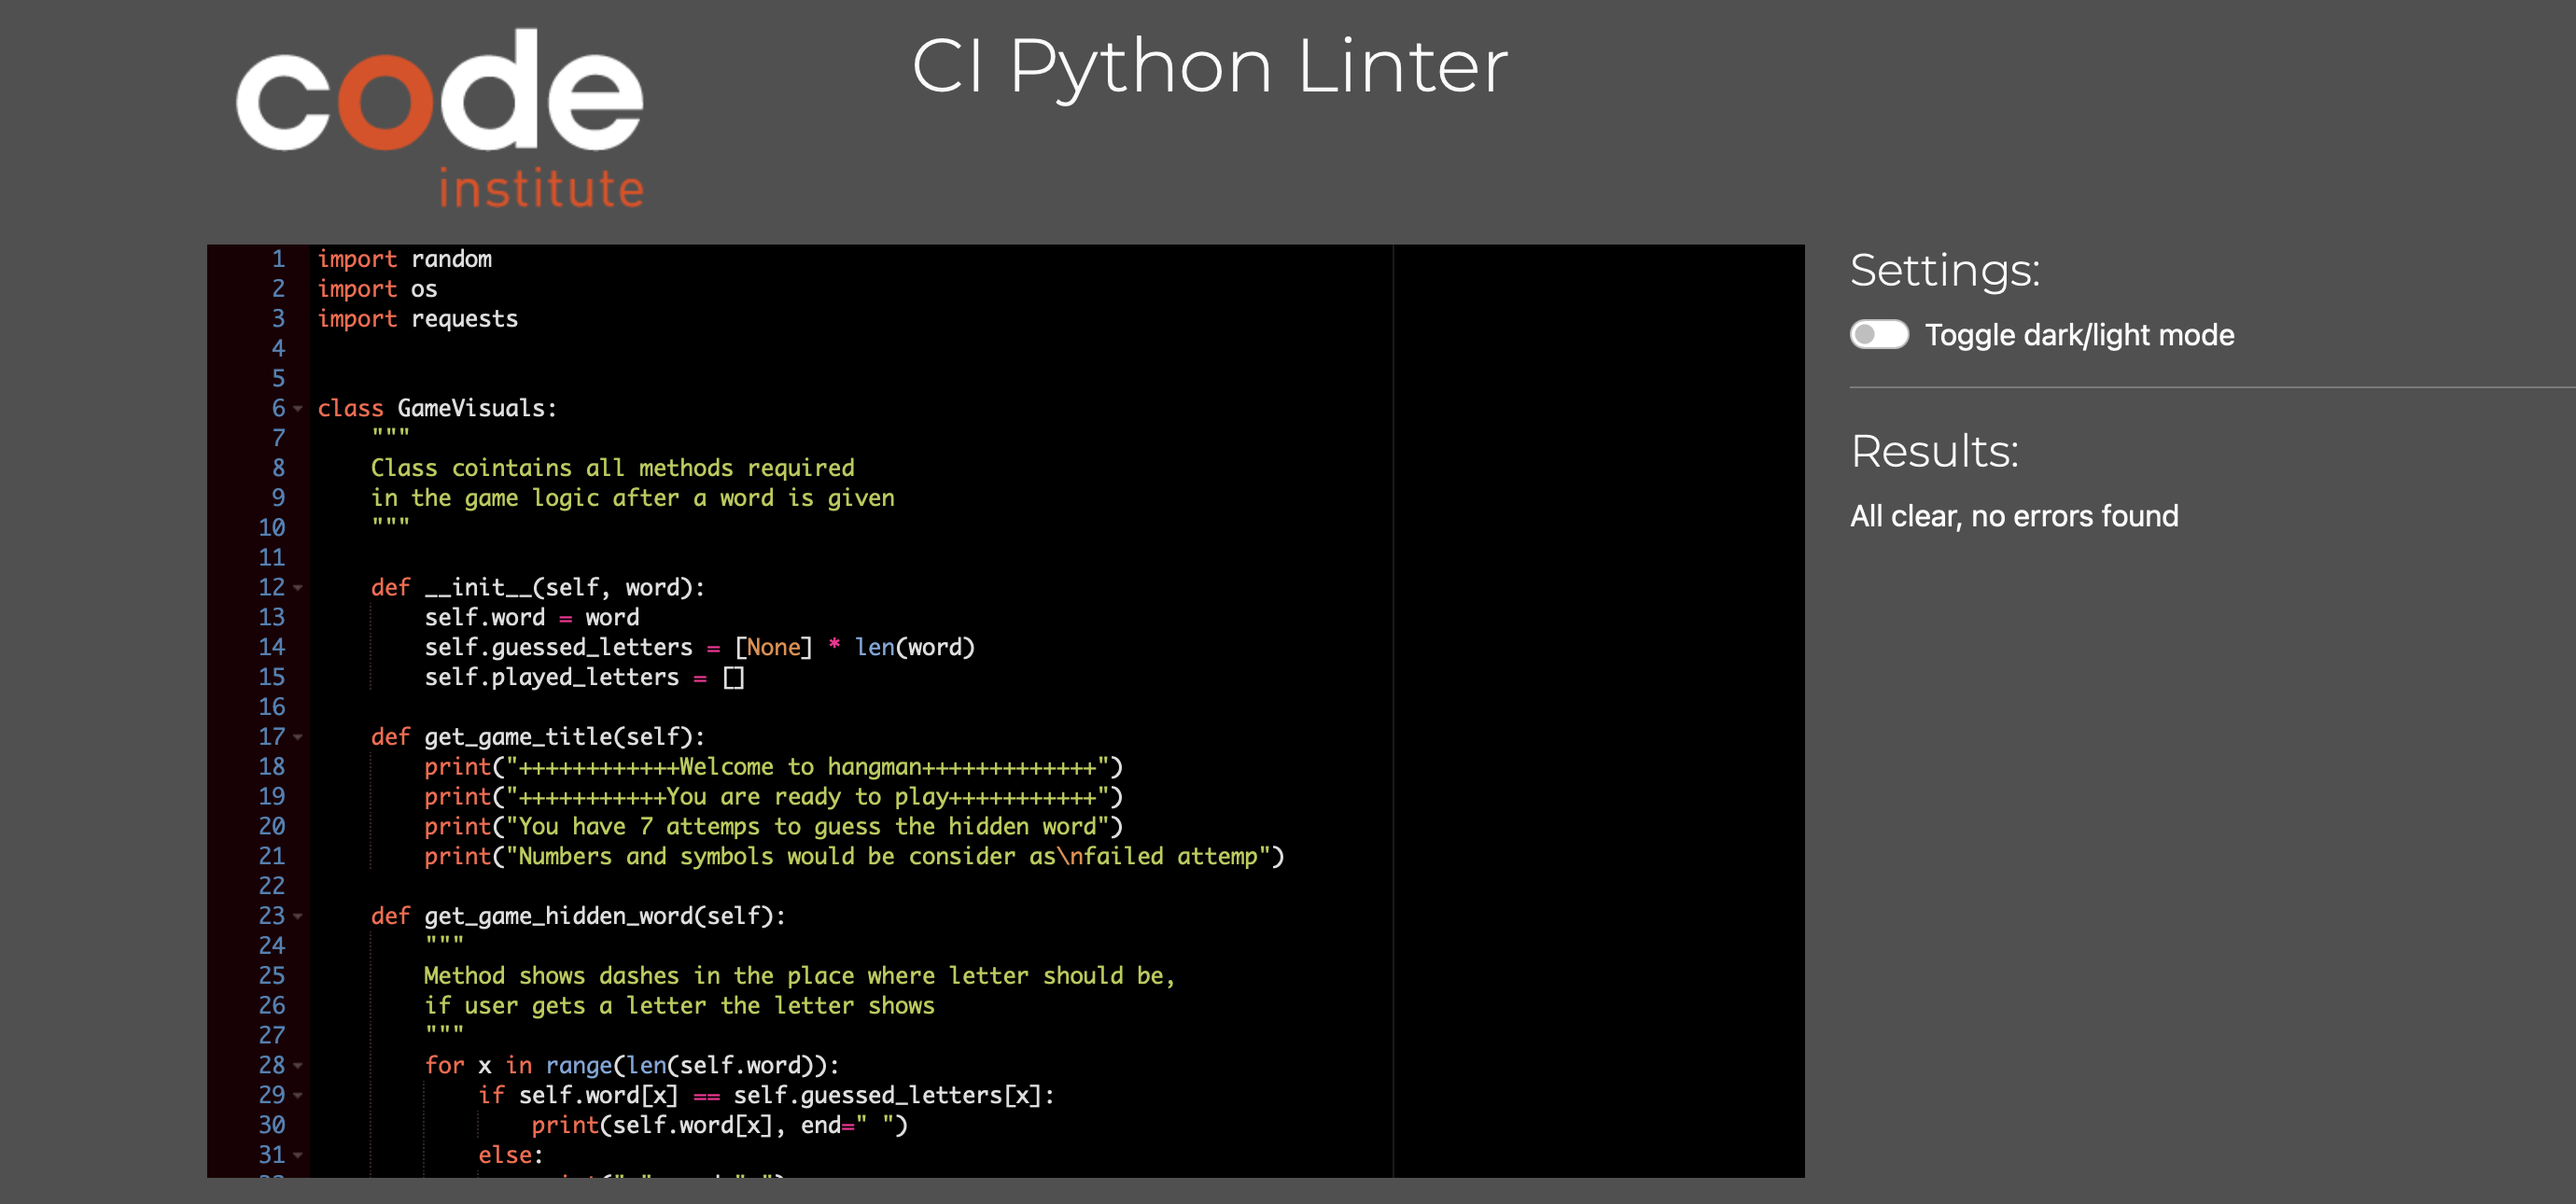
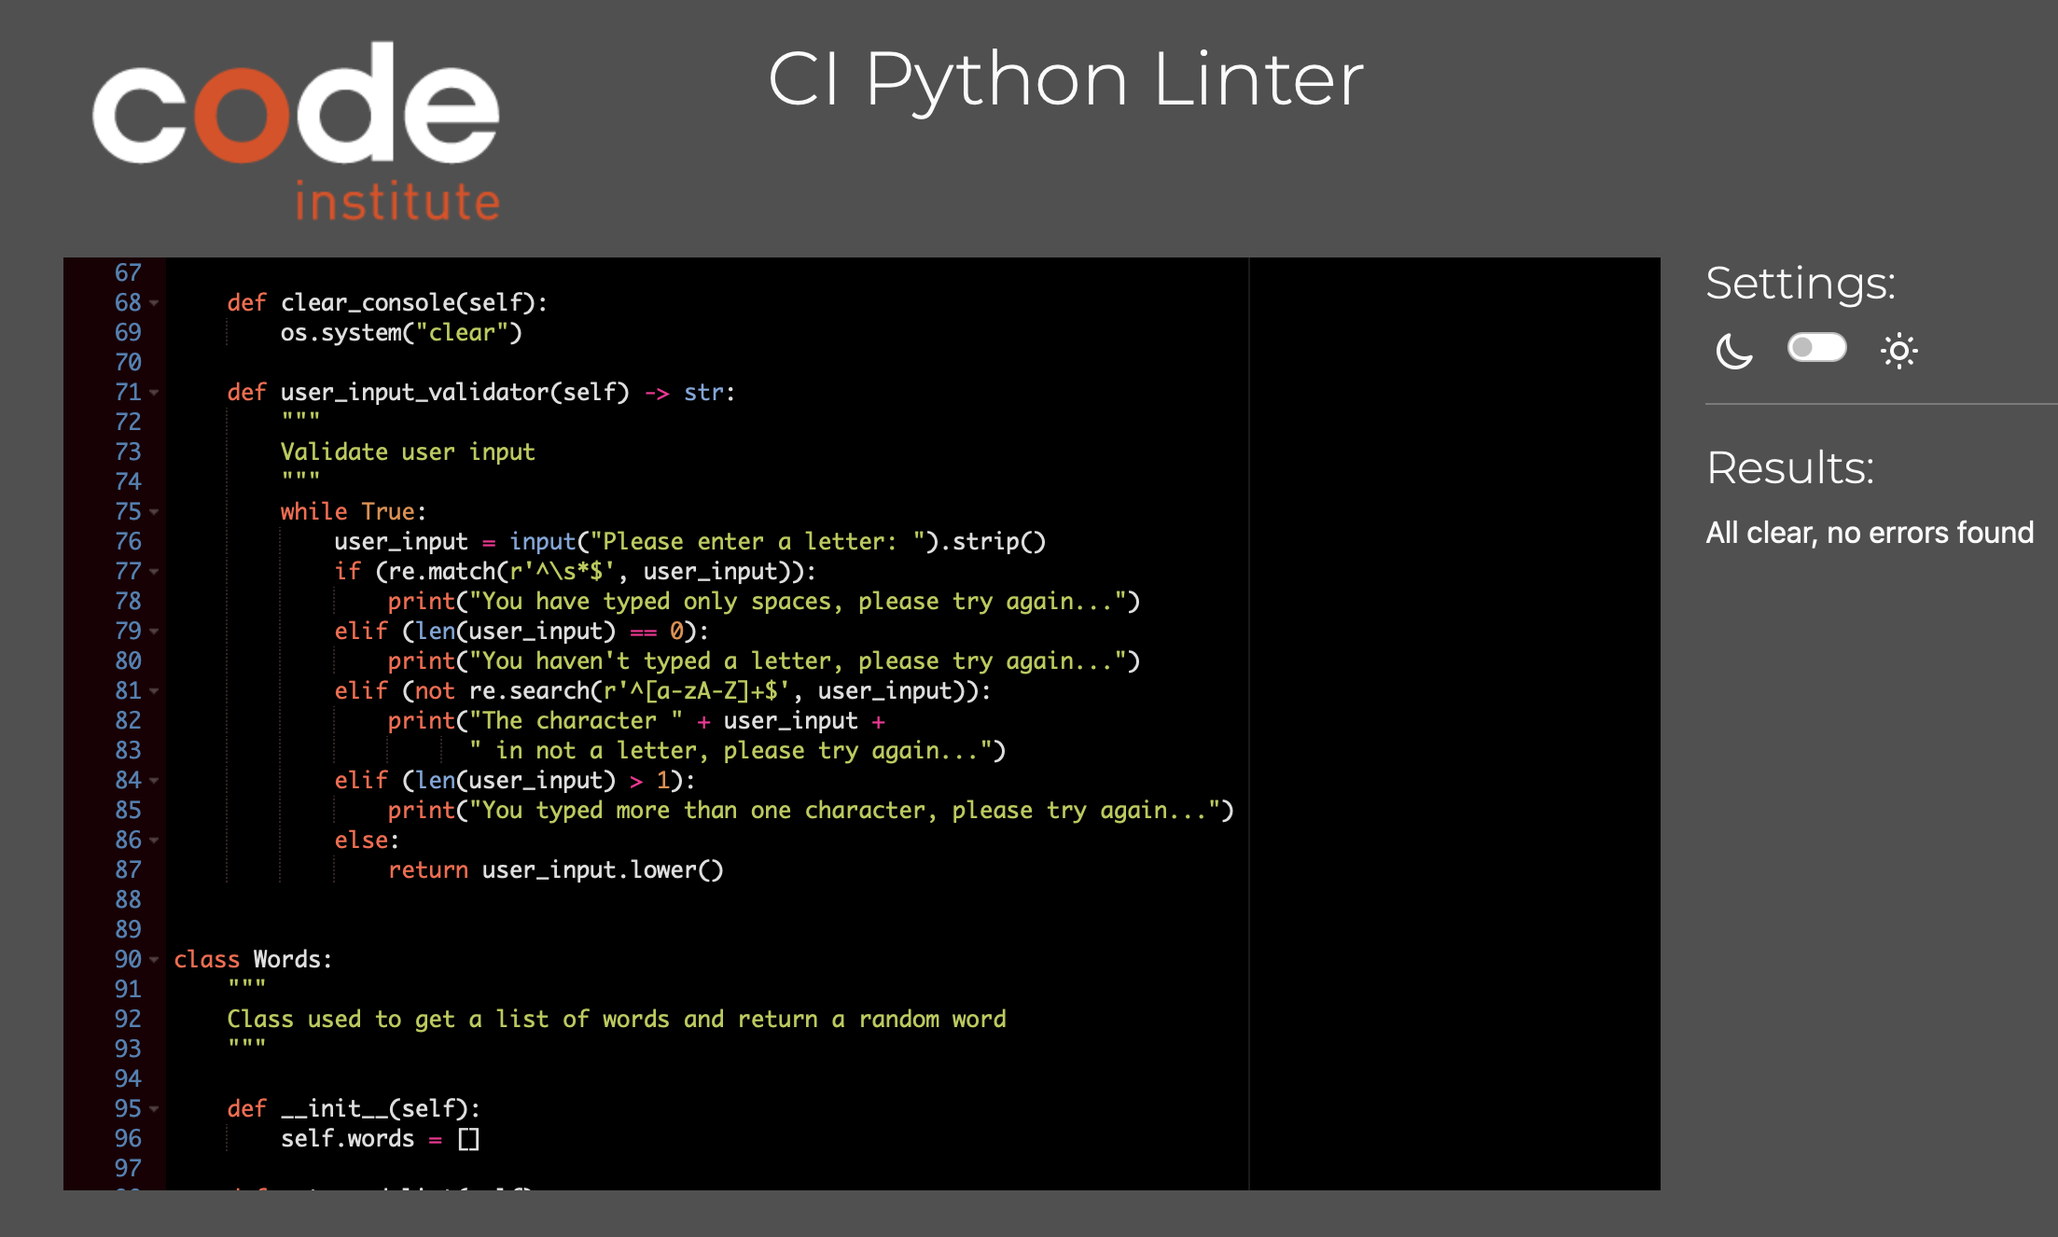
Add link to youtube channel, fixing some bugs

Changed region(s): [[0.0308, 0.031, 0.9864, 0.9922], [0.3391, 0.031, 0.6473, 0.093]]

diff --git a/run.py b/run.py
@@ -1,14 +1,18 @@
+"""
+This module contains the implementation of the hangman game
+"""
+
 import random
 import os
-import requests
 import re
+import requests
 
 
 class GameVisuals:
-    “”"
+    """
     Class contains all methods required
     in the game logic after a word is given
-    “”"
+    """
 
     def __init__(self, word):
         self.word = word
@@ -16,35 +20,41 @@ class GameVisuals:
         self.played_letters = []
 
     def get_game_title(self):
-        print(“++++++++++++Welcome to hangman+++++++++++++“)
-        print(“+++++++++++You are ready to play+++++++++++“)
-        print(“You have 7 attempts to guess the hidden word”)
+        """
+        Welcoming message for user
+        """
+        print("++++++++++++Welcome to hangman+++++++++++++")
+        print("+++++++++++You are ready to play+++++++++++")
+        print("You have 7 attempts to guess the hidden word")
 
     def get_game_hidden_word(self):
-        “”"
+        """
         Method shows dashes in the place where letter should be,
         if user gets a letter the letter shows
-        “”"
+        """
         for x in range(len(self.word)):
             if self.word[x] == self.guessed_letters[x]:
-                print(self.word[x], end=” “)
+                print(self.word[x], end=" ")
             else:
-                print(“_”, end=” “)
-        print(“”)
-        print(“”)
+                print("_", end=" ")
+        print("")
+        print("")
 
     def compare_word_letter(self, user_input) -> int:
-        “”"
+        """
         Verifies if the user input is a letter of the hidden word
-        “”"
+        """
         index = 0
         letter_found_count = 0
         user_input_lenght = len(user_input)
+
         for guess_letter in self.played_letters:
             if guess_letter == user_input:
                 letter_found_count = -1
+
         if user_input_lenght != 1:
             letter_found_count = -1
+
         if letter_found_count != -1:
             for letter in self.word:
                 if letter == user_input:
@@ -52,57 +62,65 @@ class GameVisuals:
                     letter_found_count = letter_found_count + 1
                 index = index + 1
             self.played_letters.append(user_input)
+
         return letter_found_count
 
     def get_played_letters(self):
-        “”"
+        """
         Shows all the letters that the player has typed
-        “”"
+        """
         for letter in self.played_letters:
-            print(letter, end=” “)
+            print(letter, end=" ")
 
     def clear_console(self):
-        os.system(“clear”)
+        """
+        Clears the console for new game
+        """
+        os.system("clear")
 
     def user_input_validator(self) -> str:
-        “”"
+        """
         Validate user input
-        “”"
+        """
         while True:
-            user_input = input(“Please enter a letter: “).strip()
-            if (re.match(r’^\s *$‘, user_input)):
-                print(“You have typed only spaces, please try again...“)
+            user_input = input("Please enter a letter: ").strip()
+            if (re.match(r'^\s*$', user_input)):
+                print("You have typed only spaces, please try again...")
             elif (len(user_input) == 0):
-                print(“You haven’t typed a letter, please try again...“)
-            elif (not re.search(r’^ [a-zA-Z] +$’, user_input)):
-                print(“The character ” + user_input + ” in not a letter, please try again...“)
+                print("You haven't typed a letter, please try again...")
+            elif (not re.search(r'^[a-zA-Z]+$', user_input)):
+                print("The character " + user_input +
+                      " in not a letter, please try again...")
             elif (len(user_input) > 1):
-                print(“You have typed more than one character, please try again...“)
+                print("You typed more than one character, please try again...")
             else:
                 return user_input.lower()
 
 
 class Words:
-    “”"
+    """
     Class used to get a list of words and return a random word
-    “”"
+    """
 
     def __init__(self):
         self.words = []
 
     def get_word_list(self):
-        “”"
+        """
         Get a list of words from an online resource
-        “”"
-        word_site = “https: // www.mit.edu/~ecprice/wordlist.10000”
+        """
+        word_site = "https://www.mit.edu/~ecprice/wordlist.10000"
         response = requests.get(word_site, timeout=10)
         words_in_bytes = response.content.splitlines()
         self.convert_bytes_into_string(words_in_bytes)
         self.filter_word_list()
 
     def convert_bytes_into_string(self, words_in_bytes):
+        """
+        Convert a list of byte sequences into a list of strings
+        """
         for word in words_in_bytes:
-            self.words.append(word.decode(“utf-8"))
+            self.words.append(word.decode("utf-8"))
 
     def filter_word_list(self):
         for word in self.words:
@@ -110,21 +128,27 @@ class Words:
                 self.words.remove(word)
 
     def get_random_word(self) -> str:
+        """
+        Get random word to start a new game
+        """
         index = random.randint(0, len(self.words) - 1)
         return self.words[index]
 
 
-if __name__ == “__main__“:
+if __name__ == "__main__":
     w1 = Words()
     fails = 0
     hits = 0
+
     w1.get_word_list()
     game_word = w1.get_random_word()
     word_length = len(game_word)
     visuals = GameVisuals(game_word)
+
     visuals.clear_console()
     visuals.get_game_title()
     visuals.get_game_hidden_word()
+
     while fails < 7 and hits < word_length:
         user_input = visuals.user_input_validator()
         visuals.clear_console()
@@ -135,12 +159,13 @@ if __name__ == “__main__“:
             hits = hits + letter_found_count
         visuals.get_game_title()
         visuals.get_game_hidden_word()
-        print(“Letters played...“)
+        print("Letters played...")
         visuals.get_played_letters()
-        print(“”)
-        print(f”Fails: {fails}“)
+        print("")
+        print(f"Fails: {fails}")
+
     if hits == word_length:
-        print(“!!!!!CONGRATULATIONS YOU WON!!!!!!“)
+        print("!!!!!CONGRATULATIONS YOU WON!!!!!!")
     else:
-        print(“SORRY YOU LOSE”)
-        print(“The word was: ” + game_word)
+        print("SORRY YOU LOSE")
+        print("The word was: " + game_word)

diff --git a/README.md b/README.md
@@ -60,7 +60,7 @@ To put in practise that I understand the basic skills to used Python. To give us
 
 ## TESTING
 
-The game has been tested in the terminal with the "pip install black" command.
+The game has been tested in the terminal with the "pip install black" command. Write different input manually to see if the program responeded well, passed when put different characters in the termial including comas, numbers, blank spaces, etc.
 
 
 
@@ -124,13 +124,20 @@ The game has been tested, played and has responded correctly.
 
 
 
-## CREDITS
+## CREDITS AND CONTENT
 
-* Shaun Halverson, Youtuber https://youtu.be/pFvSb7cb_Us, Software Developer.
+* Shaun Halverson Software Developer & Youtuber. [Shaun in Action](https://youtu.be/pFvSb7cb_Us) - Shaun's youtube channel and some ideas taken from here.
 * Antonio Rodriguez, my mentor.
-* W3Schools. 
-* YouTube. 
+* W3Schools.  
 * Stackoverflow.
 * Student care. 
-* Tutors.
 * Slack community.
+
+
+## ACKNOWLEDGMENTS
+
+* This game was created for my PP3 Project for the Full Stack Software Developer program with Code Institute.
+
+
+
+## David Angel, 2022/2023
